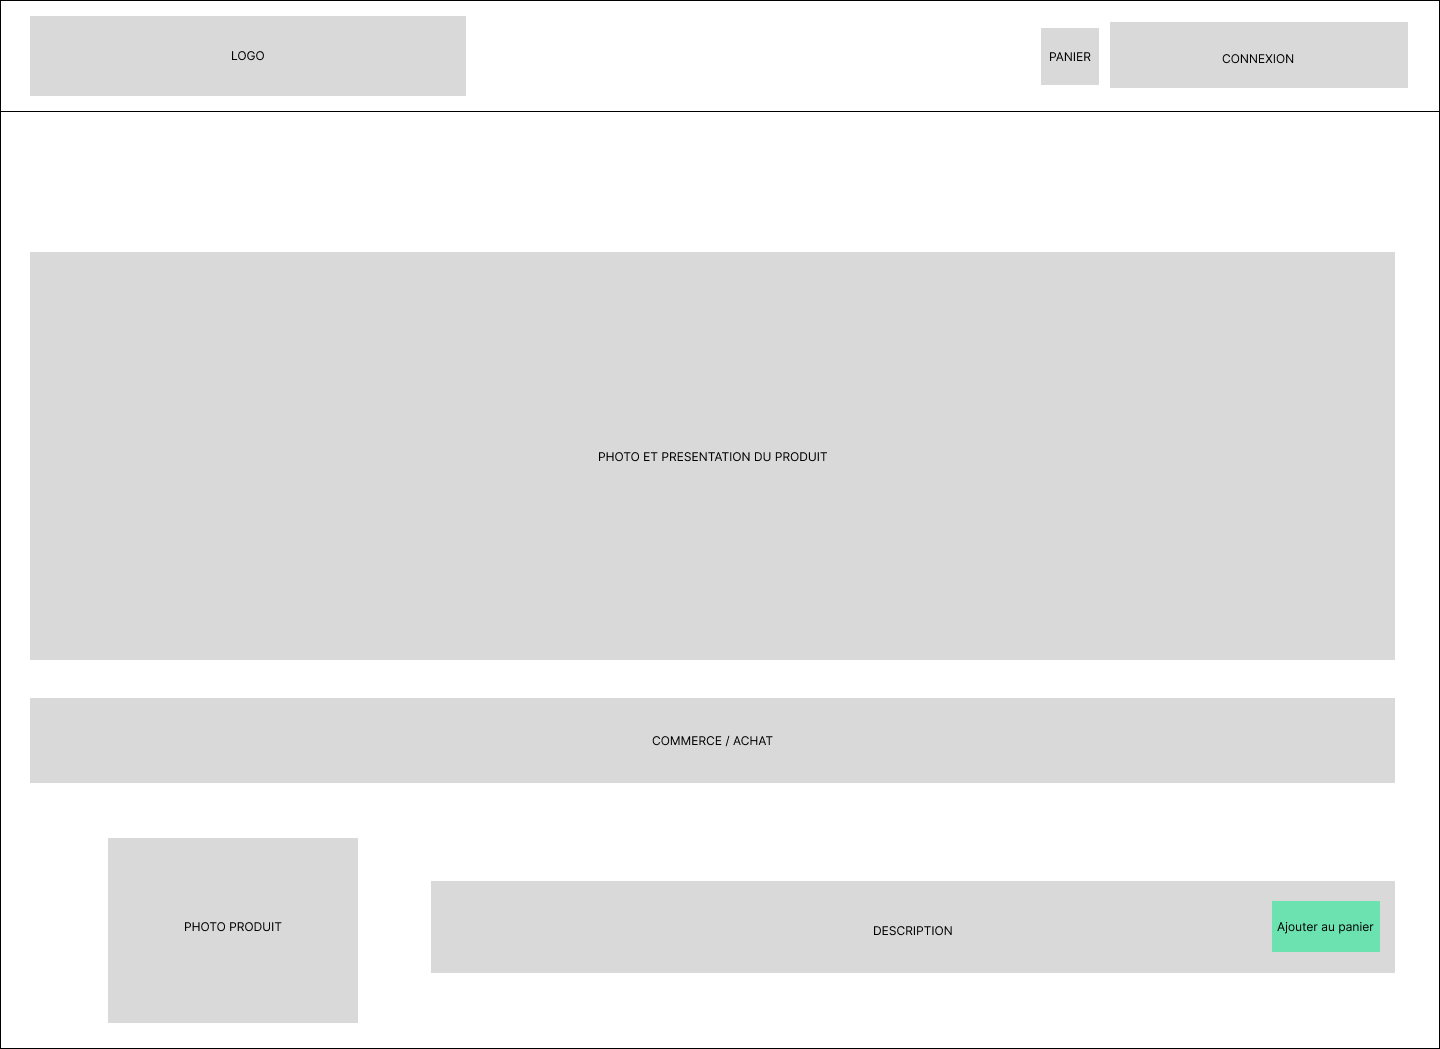
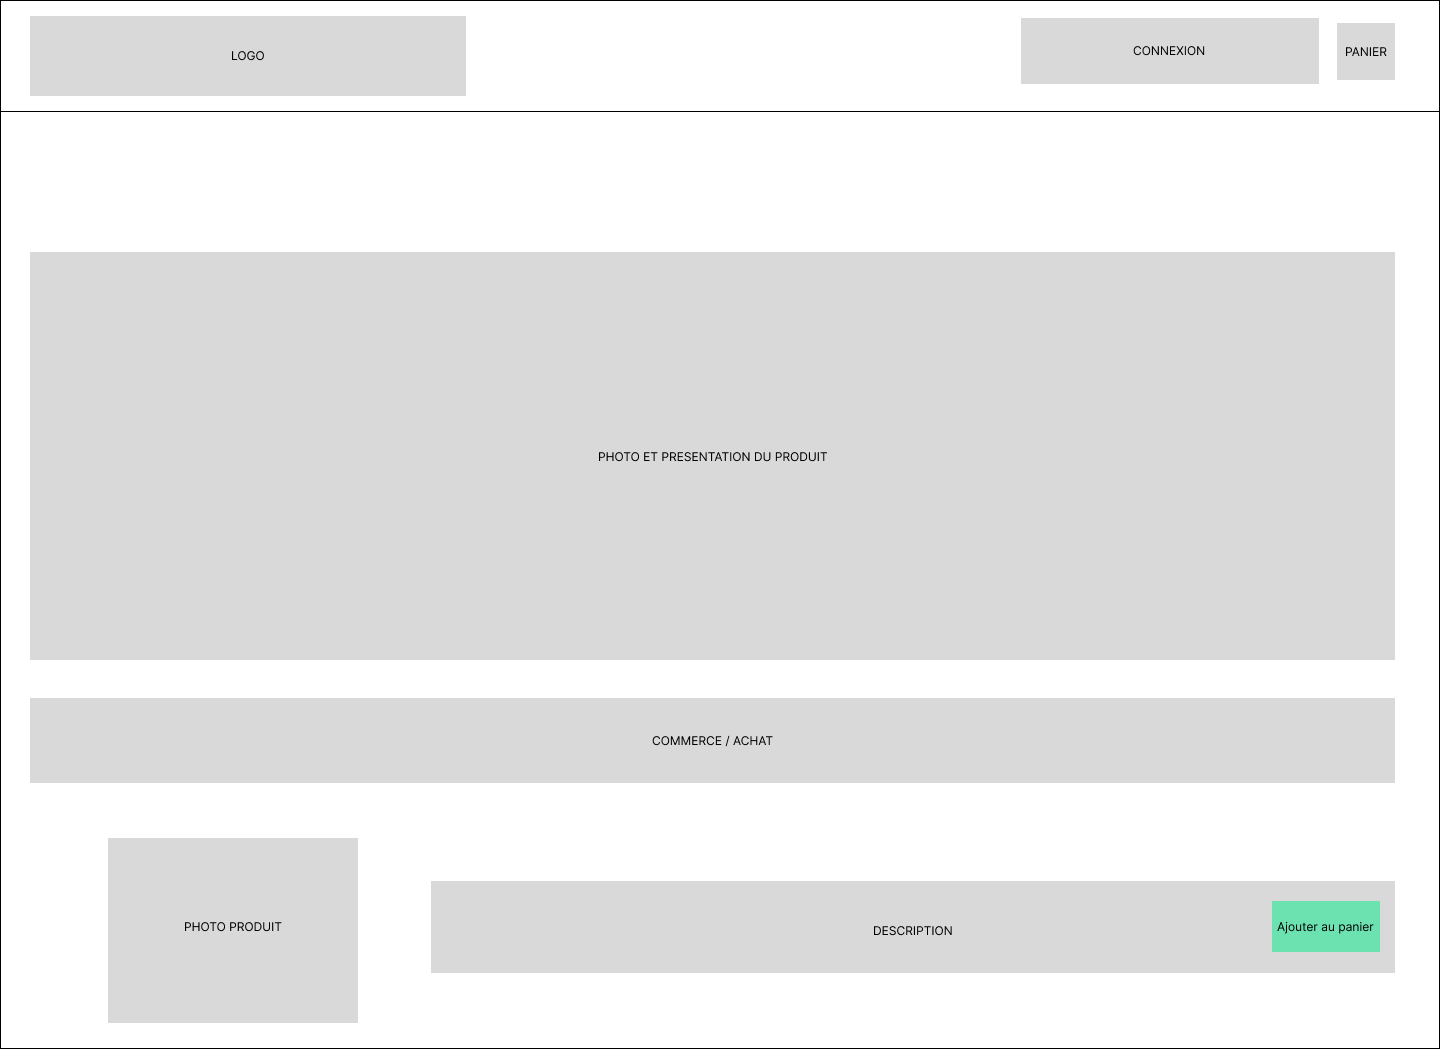
rendu-mardi
Ajout maquette
Header
Assets (images)
Home
Authentification

Changed region(s): [[0.6875, 0.0, 1.0, 0.0915]]

diff --git a/src/front-office/Home.tsx b/src/front-office/Home.tsx
@@ -1,0 +1,108 @@
+import Header from "../components/Header"
+
+function Home(){
+    return (
+        <div><Header/>
+        
+        <div className="">
+            <blockquote
+            className="fixed top-40 text-xl italic text-center font-semibold dark:text-white bottom-80 align-middle bg-gray:800">
+             Le surf (abréviation française de l'anglais surf-riding, où riding signifie « monter » et surf « (vagues) déferlantes ») est une pratique physique individuelle de glisse sur les vagues, au bord de l'océan.
+            </blockquote>
+        </div>
+
+        
+        <div className="">
+            
+        </div>
+
+        <section className="mb-32 text-gray-800 text-center md:text-left">
+    <div className="block rounded-lg shadow-lg bg-white">
+      <div className="flex flex-wrap items-center">
+        <div className="grow-0 shrink-0 basis-auto block lg:flex w-full lg:w-6/12 xl:w-4/12">
+          <img src="https://mdbootstrap.com/img/new/ecommerce/vertical/126.jpg" alt="Trendy Pants and Shoes"
+            className="w-full rounded-t-lg lg:rounded-tr-none lg:rounded-bl-lg" />
+        </div>
+        <div className="grow-0 shrink-0 basis-auto w-full lg:w-6/12 xl:w-8/12">
+          <div className="px-6 py-12 md:px-12">
+            <h2 className="text-3xl font-bold mb-6 pb-2">Top quality product</h2>
+            <p className="text-gray-500 mb-6 pb-2">
+              Lorem ipsum dolor sit amet, consectetur adipisicing elit. A soluta corporis
+              voluptate ab error quam dolores doloremque, quae consectetur.
+            </p>
+            <div className="flex flex-wrap mb-6">
+              <div className="w-full lg:w-6/12 xl:w-4/12 mb-4">
+                <p className="flex items-center justify-center md:justify-start">
+                  <svg className="w-4 h-4 mr-2" role="img" xmlns="http://www.w3.org/2000/svg" viewBox="0 0 512 512">
+                    <path fill="currentColor"
+                      d="M504 256c0 136.967-111.033 248-248 248S8 392.967 8 256 119.033 8 256 8s248 111.033 248 248zM227.314 387.314l184-184c6.248-6.248 6.248-16.379 0-22.627l-22.627-22.627c-6.248-6.249-16.379-6.249-22.628 0L216 308.118l-70.059-70.059c-6.248-6.248-16.379-6.248-22.628 0l-22.627 22.627c-6.248 6.248-6.248 16.379 0 22.627l104 104c6.249 6.249 16.379 6.249 22.628.001z">
+                    </path>
+                  </svg>Noise cancelling
+                </p>
+              </div>
+              <div className="w-full lg:w-6/12 xl:w-4/12 mb-4">
+                <p className="flex items-center justify-center md:justify-start">
+                  <svg className="w-4 h-4 mr-2" role="img" xmlns="http://www.w3.org/2000/svg" viewBox="0 0 512 512">
+                    <path fill="currentColor"
+                      d="M504 256c0 136.967-111.033 248-248 248S8 392.967 8 256 119.033 8 256 8s248 111.033 248 248zM227.314 387.314l184-184c6.248-6.248 6.248-16.379 0-22.627l-22.627-22.627c-6.248-6.249-16.379-6.249-22.628 0L216 308.118l-70.059-70.059c-6.248-6.248-16.379-6.248-22.628 0l-22.627 22.627c-6.248 6.248-6.248 16.379 0 22.627l104 104c6.249 6.249 16.379 6.249 22.628.001z">
+                    </path>
+                  </svg>Touch controls
+                </p>
+              </div>
+              <div className="w-full lg:w-6/12 xl:w-4/12 mb-4">
+                <p className="flex items-center justify-center md:justify-start">
+                  <svg className="w-4 h-4 mr-2" role="img" xmlns="http://www.w3.org/2000/svg" viewBox="0 0 512 512">
+                    <path fill="currentColor"
+                      d="M504 256c0 136.967-111.033 248-248 248S8 392.967 8 256 119.033 8 256 8s248 111.033 248 248zM227.314 387.314l184-184c6.248-6.248 6.248-16.379 0-22.627l-22.627-22.627c-6.248-6.249-16.379-6.249-22.628 0L216 308.118l-70.059-70.059c-6.248-6.248-16.379-6.248-22.628 0l-22.627 22.627c-6.248 6.248-6.248 16.379 0 22.627l104 104c6.249 6.249 16.379 6.249 22.628.001z">
+                    </path>
+                  </svg>Clear calls
+                </p>
+              </div>
+              <div className="w-full lg:w-6/12 xl:w-4/12 mb-4">
+                <p className="flex items-center justify-center md:justify-start">
+                  <svg className="w-4 h-4 mr-2" role="img" xmlns="http://www.w3.org/2000/svg" viewBox="0 0 512 512">
+                    <path fill="currentColor"
+                      d="M504 256c0 136.967-111.033 248-248 248S8 392.967 8 256 119.033 8 256 8s248 111.033 248 248zM227.314 387.314l184-184c6.248-6.248 6.248-16.379 0-22.627l-22.627-22.627c-6.248-6.249-16.379-6.249-22.628 0L216 308.118l-70.059-70.059c-6.248-6.248-16.379-6.248-22.628 0l-22.627 22.627c-6.248 6.248-6.248 16.379 0 22.627l104 104c6.249 6.249 16.379 6.249 22.628.001z">
+                    </path>
+                  </svg>Quite mode
+                </p>
+              </div>
+              <div className="w-full lg:w-6/12 xl:w-4/12 mb-4">
+                <p className="flex items-center justify-center md:justify-start">
+                  <svg className="w-4 h-4 mr-2" role="img" xmlns="http://www.w3.org/2000/svg" viewBox="0 0 512 512">
+                    <path fill="currentColor"
+                      d="M504 256c0 136.967-111.033 248-248 248S8 392.967 8 256 119.033 8 256 8s248 111.033 248 248zM227.314 387.314l184-184c6.248-6.248 6.248-16.379 0-22.627l-22.627-22.627c-6.248-6.249-16.379-6.249-22.628 0L216 308.118l-70.059-70.059c-6.248-6.248-16.379-6.248-22.628 0l-22.627 22.627c-6.248 6.248-6.248 16.379 0 22.627l104 104c6.249 6.249 16.379 6.249 22.628.001z">
+                    </path>
+                  </svg>Secure
+                </p>
+              </div>
+              <div className="w-full lg:w-6/12 xl:w-4/12 mb-4">
+                <p className="flex items-center justify-center md:justify-start">
+                  <svg className="w-4 h-4 mr-2" role="img" xmlns="http://www.w3.org/2000/svg" viewBox="0 0 512 512">
+                    <path fill="currentColor"
+                      d="M504 256c0 136.967-111.033 248-248 248S8 392.967 8 256 119.033 8 256 8s248 111.033 248 248zM227.314 387.314l184-184c6.248-6.248 6.248-16.379 0-22.627l-22.627-22.627c-6.248-6.249-16.379-6.249-22.628 0L216 308.118l-70.059-70.059c-6.248-6.248-16.379-6.248-22.628 0l-22.627 22.627c-6.248 6.248-6.248 16.379 0 22.627l104 104c6.249 6.249 16.379 6.249 22.628.001z">
+                    </path>
+                  </svg>Comfortable
+                </p>
+              </div>
+            </div>
+            <button type="button"
+              className="inline-block px-7 py-3 bg-gray-800 text-white font-medium text-sm leading-snug uppercase rounded shadow-md hover:bg-gray-900 hover:shadow-lg focus:bg-gray-900 focus:shadow-lg focus:outline-none focus:ring-0 active:bg-gray-900 active:shadow-lg transition duration-150 ease-in-out">
+              Buy now
+            </button>
+          </div>
+        </div>
+      </div>
+    </div>
+  </section>
+
+
+            </div>
+
+    )
+
+
+    
+}
+
+export default Home

diff --git a/src/components/Header.tsx b/src/components/Header.tsx
@@ -1,0 +1,36 @@
+import React from 'react';
+import Logo from '../assets/Logo.png';
+import Panier from '../assets/Panier.jpg'
+
+
+export default function Header() {
+    return (
+        <div>
+        <img className='fixed top-5 left-5 w-28' src={Logo} alt="Logo Surfed"/>
+        
+
+        {/* <img className='fixed top-12 right-4 w-9' src={Panier} alt="Panier"/> */}
+
+        <div className="">
+            <button
+                type="button"
+                className="fixed top-10 right-28 inline-block rounded bg-primary px-3 pt-2.5 pb-2 text-s font-black uppercase leading-normal text-purple shadow-[0_4px_9px_-4px_#3b71ca] ">
+                Se Connecter
+                </button>
+                </div>
+
+        <div className="">
+            <button
+                type="button"
+                className="fixed top-10 right-6 inline-block rounded bg-primary px-3 pt-2.5 pb-2 text-s font-black uppercase leading-normal text-purple shadow-[0_4px_9px_-4px_#3b71ca] ">
+                <img className="h-6" src={Panier} alt="Panier"/>
+                </button>
+        </div>
+
+
+        
+
+</div>
+    )
+}
+

diff --git a/src/App.tsx b/src/App.tsx
@@ -4,6 +4,9 @@ import {
   Routes,
   Route
 } from "react-router-dom";
+
+import Home from "./front-office/Home"
+
 // import DashboardAdmin from './back-office/Dashboard';
 
 // react-router-dom permet de définir des routes liées à des composants
@@ -11,12 +14,20 @@ function App() {
   return (
     <Router>
       <Routes>
-        {/* <Route index element={<Home/>} /> */}
+        <Route path="/" element={<Home/>} />
         {/* <Route path="/connexion" element={<Authentification/>} /> */}
         {/* <Route path="/dashboard" element={<DashboardAdmin/>} /> */}
       </Routes>
     </Router>
   )
 }
+
+
+
+
+
+
+
+
 
 export default App

diff --git a/src/index.css b/src/index.css
@@ -27,14 +27,6 @@ a:hover {
   color: #535bf2;
 }
 
-body {
-  margin: 0;
-  display: flex;
-  place-items: center;
-  min-width: 320px;
-  min-height: 100vh;
-}
-
 h1 {
   font-size: 3.2em;
   line-height: 1.1;

diff --git a/src/front-office/Authentification.tsx b/src/front-office/Authentification.tsx
@@ -1,0 +1,1 @@
+export {}
